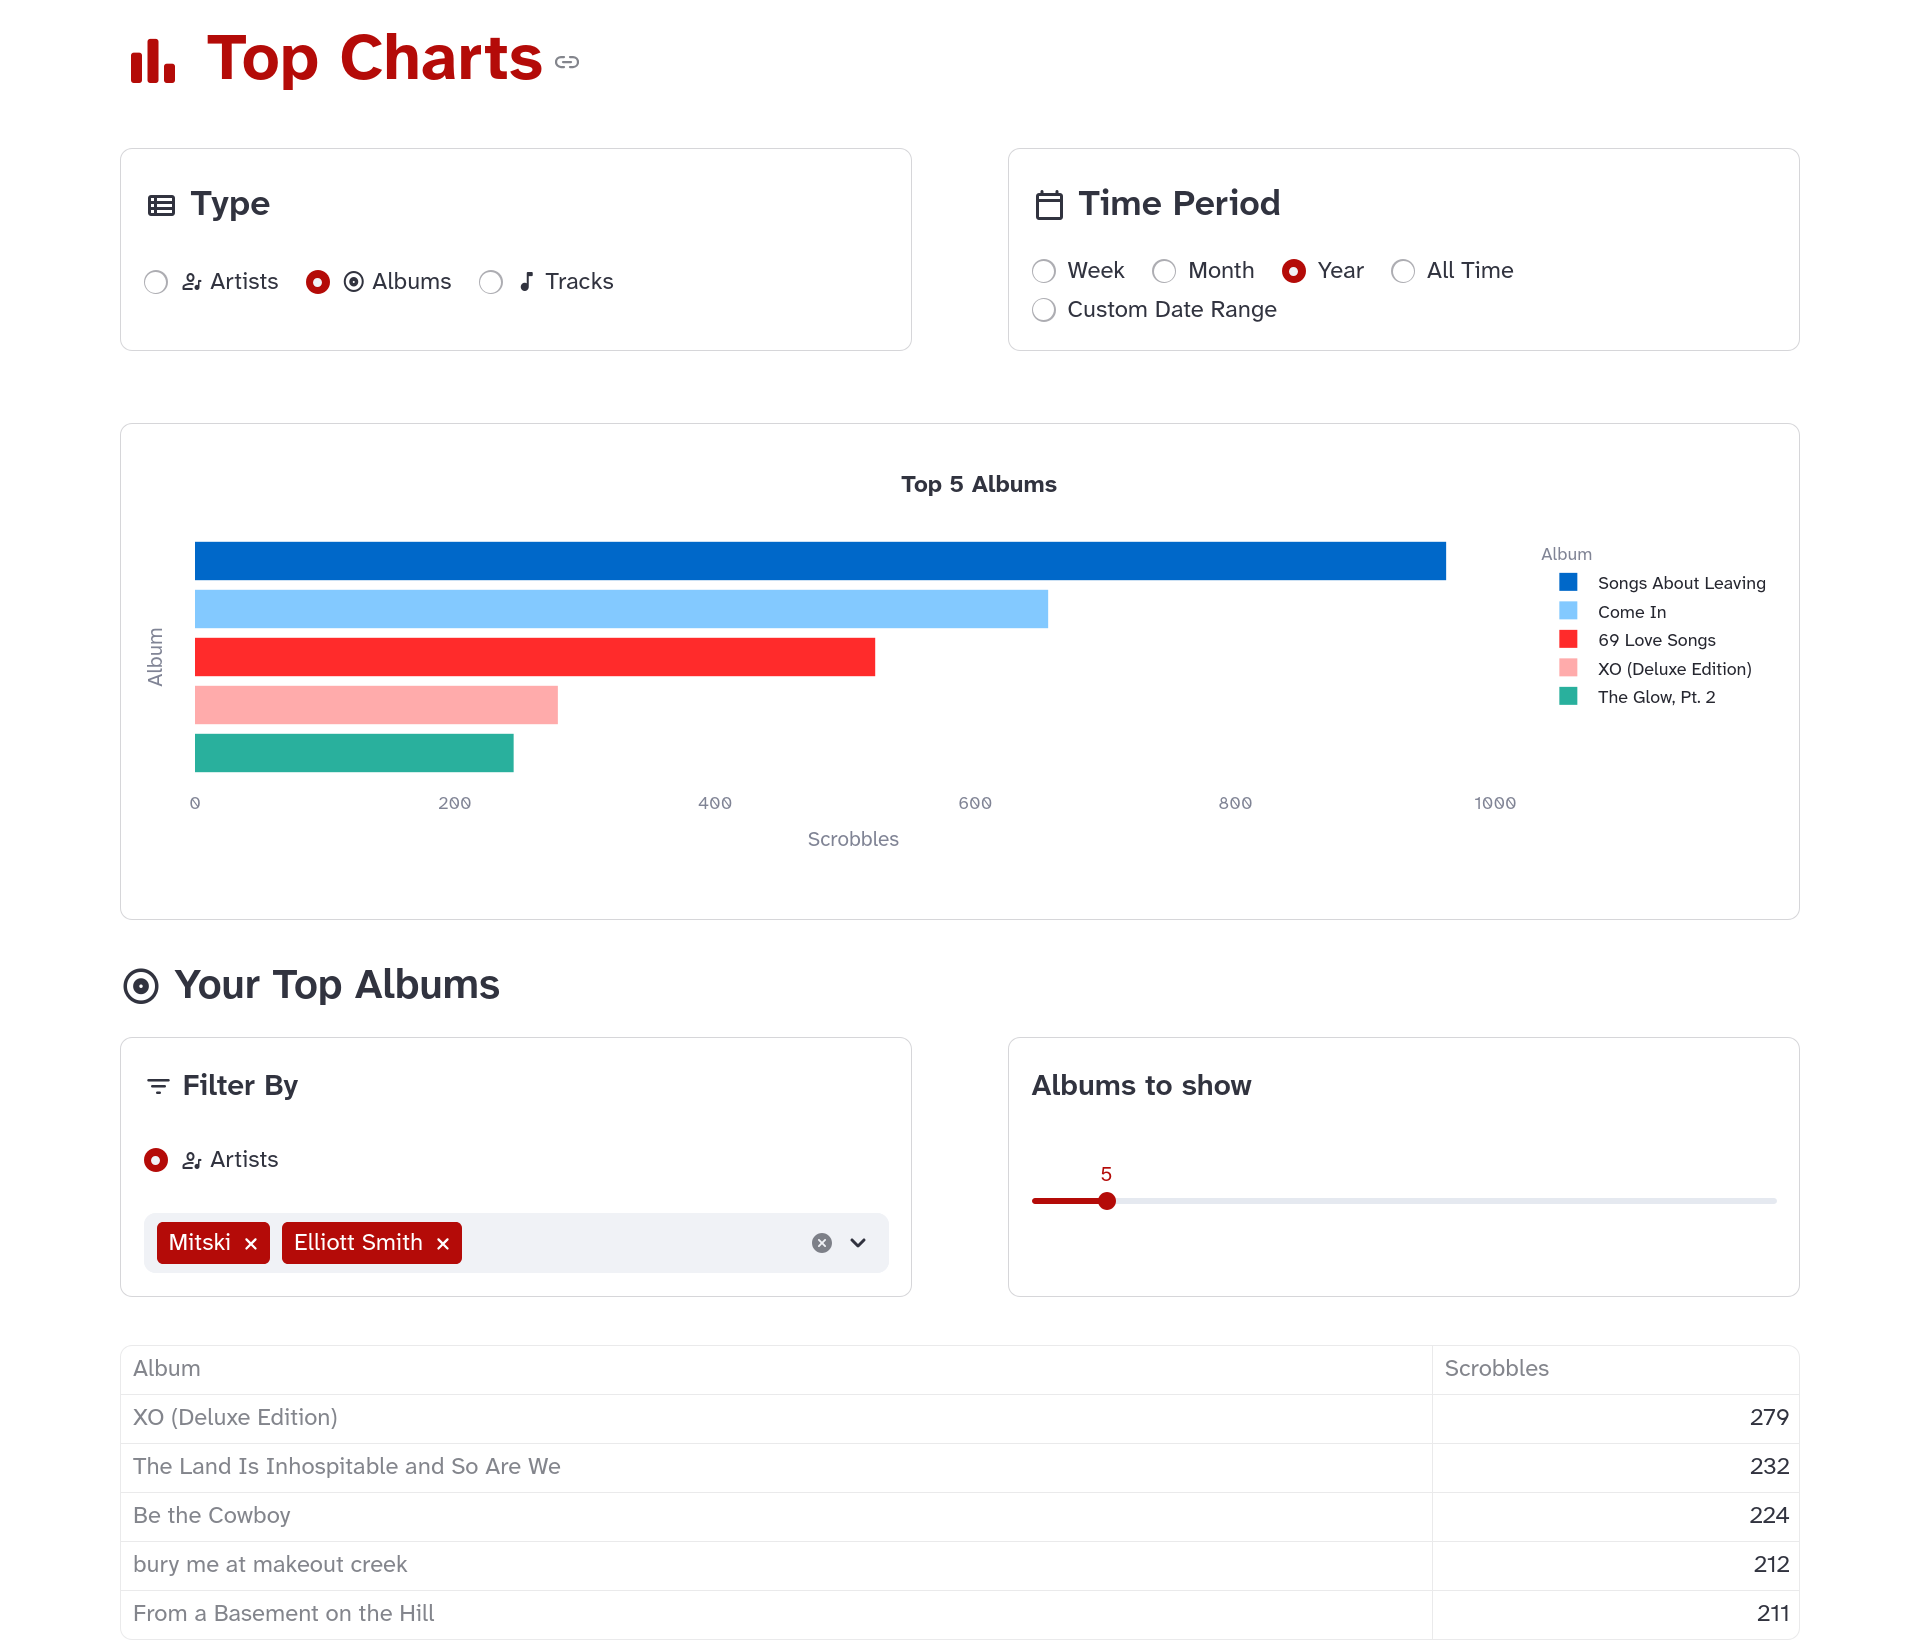
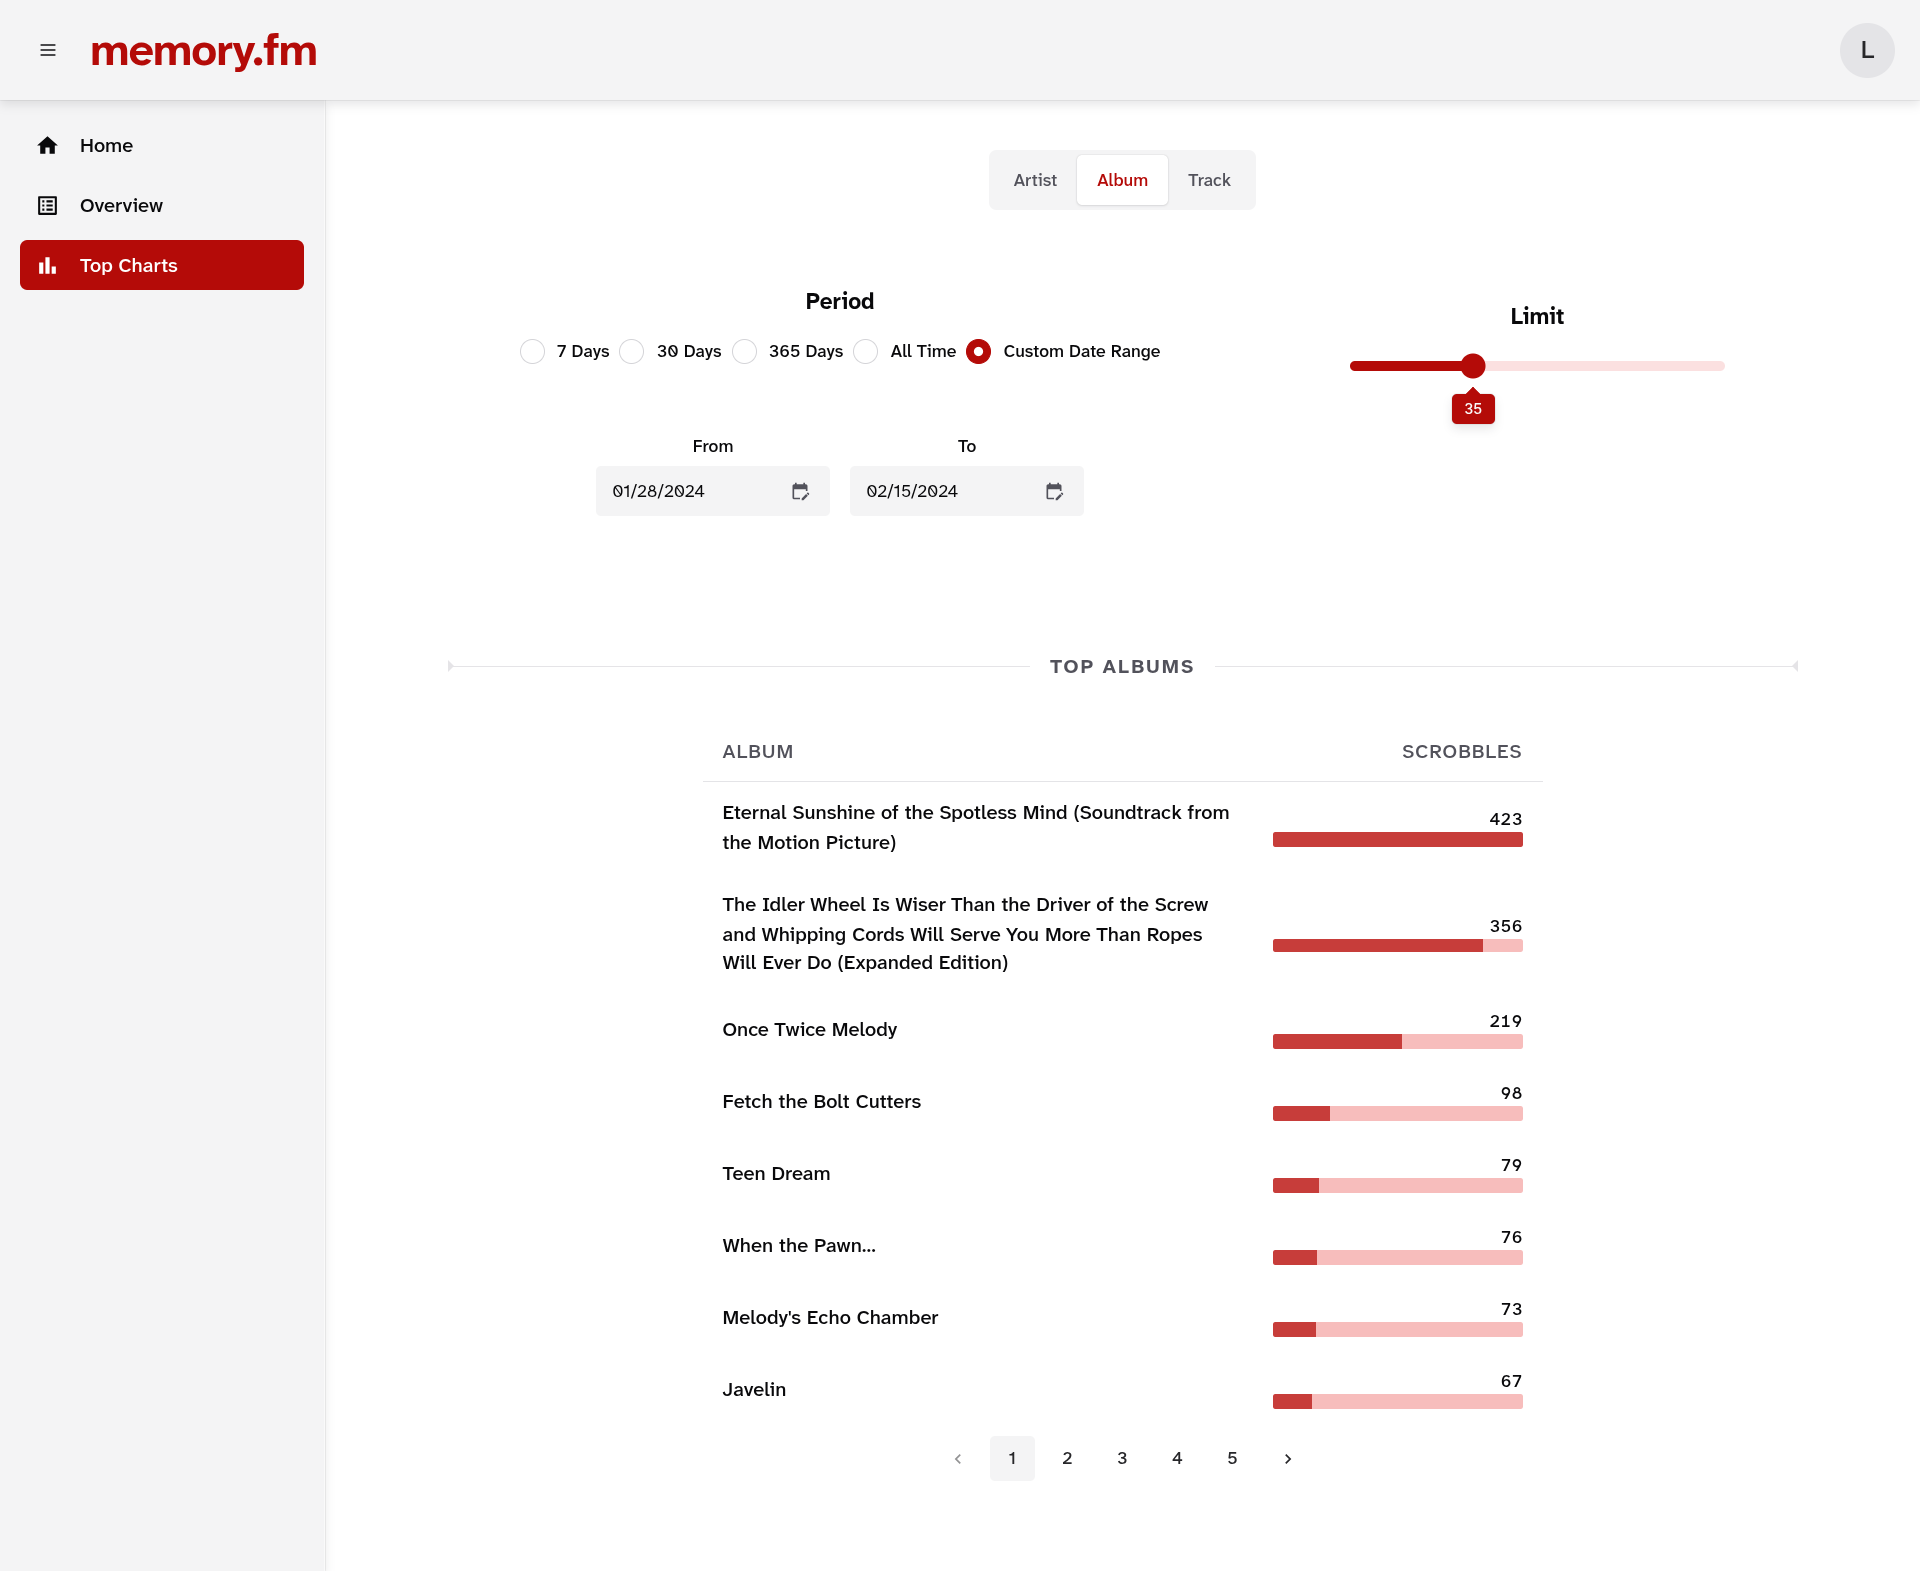
web: add top charts page with paginated table and customisable parameters.
- Add a Top Charts table component with pagination and customisable page
  size.
- Add a Top Charts page with top charts table and customisable
  parameters using `PeriodSelector`, `KindSelector`, and `LimitSelector`
  components.
- Add Top charts page to router and navigation sidebar items.
- Wrap `Section` component inside a Flexbox with center-aligned
  children.
- Include a top charts screenshot in the README preview and wrap the
  screenshots inside a markdown table.

diff --git a/apps/web/src/components/pages/topcharts.tsx b/apps/web/src/components/pages/topcharts.tsx
@@ -1,0 +1,149 @@
+import { useEffect, useState } from "react";
+
+// Data API
+import { fetchTopCharts } from "@/api/topcharts";
+
+import { Box, Flex, parseDate, Text as ChakraText, type DateValue, VStack, Alert } from "@chakra-ui/react";
+//import Section from "@/components/ui/section";
+import { fetchTopChartsByPeriod } from "@/api/user";
+import PeriodSelector from "@/components/features/analytics/periodselector";
+import type { Dates, TopChart } from "@/typing";
+import { useParams } from "react-router-dom";
+import KindSelector from "../features/analytics/kindselector";
+import useAnalyticsParams from "@/hooks/use_analytics_params";
+import LimitSelector from "../features/analytics/limitselector";
+import TopChartsTable from "../features/topcharts/topcharts_table";
+import Section from "../ui/section";
+
+// Top Charts Page
+
+
+export default function TopChartsPage() {
+
+    const { username } = useParams();
+    const [loading, setLoading] = useState(false);
+    const { params, setLimit, setMode, setKind } = useAnalyticsParams({
+        limit: 10,
+        mode: 30,
+        kind: "track",
+    });
+
+    const [customDates, setCustomDates] = useState<Dates>({
+        from_ts: parseDate(new Date()),
+        to_ts: parseDate(new Date())
+    });
+    const [data, setData] = useState<TopChart[]>();
+    if (!username?.trim()) {
+        return null;
+    }
+
+    useEffect(() => {
+        const loadData = async () => {
+            setLoading(true);
+            try {
+                let result: TopChart[];
+                if (params.mode == "custom") {
+                    result = await fetchTopCharts({
+                        username: username,
+                        kind: params.kind,
+                        from_ts: customDates.from_ts.toString(),
+                        to_ts: customDates.to_ts.toString(),
+                        limit: params.limit,
+                    });
+                }
+                else {
+                    result = await fetchTopChartsByPeriod(
+                        username, params.kind, params.mode, params.limit,
+                    )
+                }
+
+                setData(result);
+            } catch (error) {
+                console.error("Failed to load charts", error);
+            } finally {
+                setLoading(false);
+            }
+        };
+
+        loadData();
+    }, [params, customDates]);
+
+
+    const handleDateChange = (key: keyof Dates, newValues: DateValue[]) => {
+        const selectedDate = newValues[0];
+        if (selectedDate) {
+            setCustomDates((prev) => ({
+                ...prev,
+                [key]: selectedDate
+            }));
+        }
+    }
+
+    if (!data) {
+        return <ChakraText>No Data Found</ChakraText>
+    }
+
+
+    console.log("Data:", data[0])
+    return (
+        <Flex
+            direction="column"
+            gap={4}
+        >
+            <Box mt={"4"}>
+                <KindSelector value={params.kind} onKindChange={setKind} />
+            </Box>
+            <Flex
+                justify="space-around"
+                wrap="wrap"
+                gap={4}
+                padding={"4"}
+                mx={"12"}
+                mt={"4"}
+            >
+                <VStack align="center" gap={"4"} px="6" py="3">
+                    <ChakraText
+                        fontSize={"lg"}
+                        fontWeight={"bold"}
+                    >Period</ChakraText>
+                    <PeriodSelector
+                        mode={params.mode}
+                        onModeChange={setMode}
+                        customDates={customDates}
+                        onDatesChange={handleDateChange}
+                    />
+                </VStack>
+                <VStack align={"center"} gap={"4"} padding={"6"}>
+                    <ChakraText
+                        fontSize={"lg"}
+                        fontWeight={"bold"}
+                    >Limit</ChakraText>
+                    <LimitSelector
+                        min={5}
+                        value={params.limit}
+                        onLimitChange={setLimit}
+                    />
+                </VStack>
+            </Flex>
+            {(!loading && data.length > 0) ? (
+                <>
+                <Section
+                title={`Top ${params.kind}s`}
+                children={<TopChartsTable kind={params.kind} topCharts={data} pageSize={8}/>}
+                />
+                </>
+            ) : (loading) ? (
+                <div>Loading...</div>
+            ): (
+                <Flex justify={"center"}>
+                <Alert.Root status={"info"} width={"sm"} justifySelf={"center"}>
+                    <Alert.Indicator />
+                    <Alert.Content>
+                        <Alert.Title>No scrobbles found in the selected period.</Alert.Title>
+                    </Alert.Content>
+                </Alert.Root>
+                </Flex>
+            )}
+        </Flex>
+    )
+}

diff --git a/apps/web/src/components/features/topcharts/topcharts_table.tsx b/apps/web/src/components/features/topcharts/topcharts_table.tsx
@@ -1,0 +1,116 @@
+import { ButtonGroup, IconButton, Pagination, Progress, Table } from "@chakra-ui/react";
+import type { TopChart } from "@/typing";
+import { useState } from "react";
+import { MdChevronLeft, MdChevronRight } from "react-icons/md";
+import { ResponsiveContainer } from "recharts";
+
+export default function TopChartsTable(
+    { kind, topCharts, pageSize }: { kind: string, topCharts: TopChart[], pageSize: number }
+) {
+    const [page, setPage] = useState<number>(1);
+
+    const startRange = (page - 1) * pageSize;
+    const endRange = startRange + pageSize;
+    const paginatedCharts = topCharts.slice(startRange, endRange);
+
+    const values = topCharts.map(chart => chart.scrobbles);
+    const max = Math.max(...values);
+
+
+
+    return (
+        <ResponsiveContainer width={600} height={1000}>
+            <Table.Root
+                size="lg"
+                width="2xl"
+            >
+                <Table.Header>
+                    <Table.Row borderBottomWidth="1px">
+                        <Table.ColumnHeader
+                            color="fg.muted"
+                            letterSpacing="wider"
+                            fontSize="md"
+                            textTransform={"uppercase"}
+                        >
+                            {kind}
+                        </Table.ColumnHeader>
+                        <Table.ColumnHeader
+                            textAlign="end"
+                            color="fg.muted"
+                            letterSpacing="wider"
+                            fontSize="md"
+                        >
+                            SCROBBLES
+                        </Table.ColumnHeader>
+                    </Table.Row>
+                </Table.Header>
+                <Table.Body>
+                    {paginatedCharts.map((chart) => (
+                        <Table.Row
+                            key={chart.name}
+                            borderBottomWidth={"2px"}
+                            borderBottomColor={"bg"}
+                        >
+                            <Table.Cell py="3" fontWeight="500" width={"md"}>
+                                {chart.name}
+                            </Table.Cell>
+                            <Table.Cell py="3" textAlign="end" >
+                                <Progress.Root
+                                    value={chart.scrobbles}
+                                    max={max}
+                                    colorPalette="brand"
+                                    variant="subtle"
+                                    shape="rounded"
+                                    size={"lg"}
+                                    minWidth="200px"
+                                >
+
+                                    <Progress.ValueText fontSize={"sm"}>
+                                        {chart.scrobbles}
+                                    </Progress.ValueText>
+                                    <Progress.Track>
+                                        <Progress.Range />
+                                    </Progress.Track>
+                                </Progress.Root>
+                            </Table.Cell>
+                        </Table.Row>
+                    ))}
+                </Table.Body>
+            </Table.Root>
+            <Pagination.Root
+                count={topCharts.length}
+                pageSize={pageSize}
+                page={page}
+                onPageChange={(e) => setPage(e.page)}
+
+            >
+                <ButtonGroup variant="ghost" size="sm" wrap="wrap">
+                    <Pagination.PrevTrigger asChild>
+                        <IconButton>
+                            <MdChevronLeft />
+                        </IconButton>
+                    </Pagination.PrevTrigger>
+
+                    <Pagination.Items
+                        render={(page) => (
+                            <IconButton
+                                variant={{
+                                    base: "ghost",
+                                    _selected: "subtle",
+                                }}
+                            >
+                                {page.value}
+                            </IconButton>
+                        )}
+                    />
+
+                    <Pagination.NextTrigger asChild>
+                        <IconButton>
+                            <MdChevronRight />
+                        </IconButton>
+                    </Pagination.NextTrigger>
+                </ButtonGroup>
+            </Pagination.Root>
+        </ResponsiveContainer>
+    )
+}

diff --git a/apps/web/src/components/ui/section.tsx b/apps/web/src/components/ui/section.tsx
@@ -1,4 +1,4 @@
-import { Stack, Box } from '@chakra-ui/react';
+import { Stack, Box, Flex } from '@chakra-ui/react';
 import React from 'react';
 import { SectionSeparator } from './ticks';
 
@@ -8,16 +8,18 @@ interface SectionProps {
 }
 
 
-const Section = ({title, children}: SectionProps) => {
-    return (
-        <>
+const Section = ({ title, children }: SectionProps) => {
+  return (
+    <Flex direction="column" w="full" align="center">
+      <Box w="full" maxW="1200px">
         <SectionSeparator title={title} colorToken="ticks" />
-        <Box as="section" mb="12" justifySelf={"center"}>
-        <Stack className="content">
+        <Box as="section" mb="12" justifyItems={"center"}>
+          <Stack className="content" h="full">
             {children}
-        </Stack>
-    </Box>
-    </>
+          </Stack>
+        </Box>
+      </Box>
+    </Flex>
   );
 };
 

diff --git a/apps/web/src/routes/index.tsx b/apps/web/src/routes/index.tsx
@@ -2,6 +2,7 @@ import { createBrowserRouter } from 'react-router-dom';
 import AppLayout from "@/components/layout/layout"
 import HomePage from "@/components/pages/homepage"
 import Overview from "@/components/pages/overview";
+import TopChartsPage from '@/components/pages/topcharts';
 
 
 export const router = createBrowserRouter([
@@ -9,6 +10,7 @@ export const router = createBrowserRouter([
         path: "/",
         element: <HomePage />
     },
+    
     {
         path: "/user/:username",
         element: <AppLayout />,
@@ -16,6 +18,10 @@ export const router = createBrowserRouter([
             {
                 path: "overview",
                 element: <Overview />,
+            },
+            {
+                path: "topcharts",
+                element: <TopChartsPage />
             },
         ],
     },

diff --git a/apps/web/src/components/layout/nav_sidebar/nav_sidebar.config.ts b/apps/web/src/components/layout/nav_sidebar/nav_sidebar.config.ts
@@ -1,7 +1,8 @@
-import { MdHome, MdListAlt } from "react-icons/md";
+import { MdBarChart, MdHome, MdListAlt } from "react-icons/md";
 import type { SidebarNavItem } from "./nav_items";
 
 export const useNavItems = (username: string): SidebarNavItem[] => [
     { icon: MdHome, label: "Home", pathname: "/"},
     { icon: MdListAlt, label: "Overview", pathname: `/user/${username}/overview` },
+    { icon: MdBarChart, label: "Top Charts", pathname: `/user/${username}/topcharts`}
 ];

diff --git a/apps/web/src/api/user.ts b/apps/web/src/api/user.ts
@@ -1,7 +1,7 @@
 const BACKEND_URL = "http://127.0.0.1:8000";
 
 
-const handleResponse = async (res: Response) => {
+export const handleResponse = async (res: Response) => {
   const data = await res.json();
 
   if (!res.ok) {

diff --git a/README.md b/README.md
@@ -21,10 +21,9 @@ Instead of focusing only on aggregate stats, it surfaces long-term and local pat
 
 ## Preview
 
-<p align="center">
-  <img src="https://github.com/shsiddhant/memory.fm/blob/main/screenshots/overview.png" width="600px" alt="User Overview Dashboard" />
-</p>
-
+| Overview | Top Charts |
+| -------- | -----------|
+| <img src="screenshots/overview.png" width="600px" alt="User Overview Dashboard" />| <img src="screenshots/top_charts.png" width="600px" alt="User Overview Dashboard" />|
 
 ## Quick Start
 
